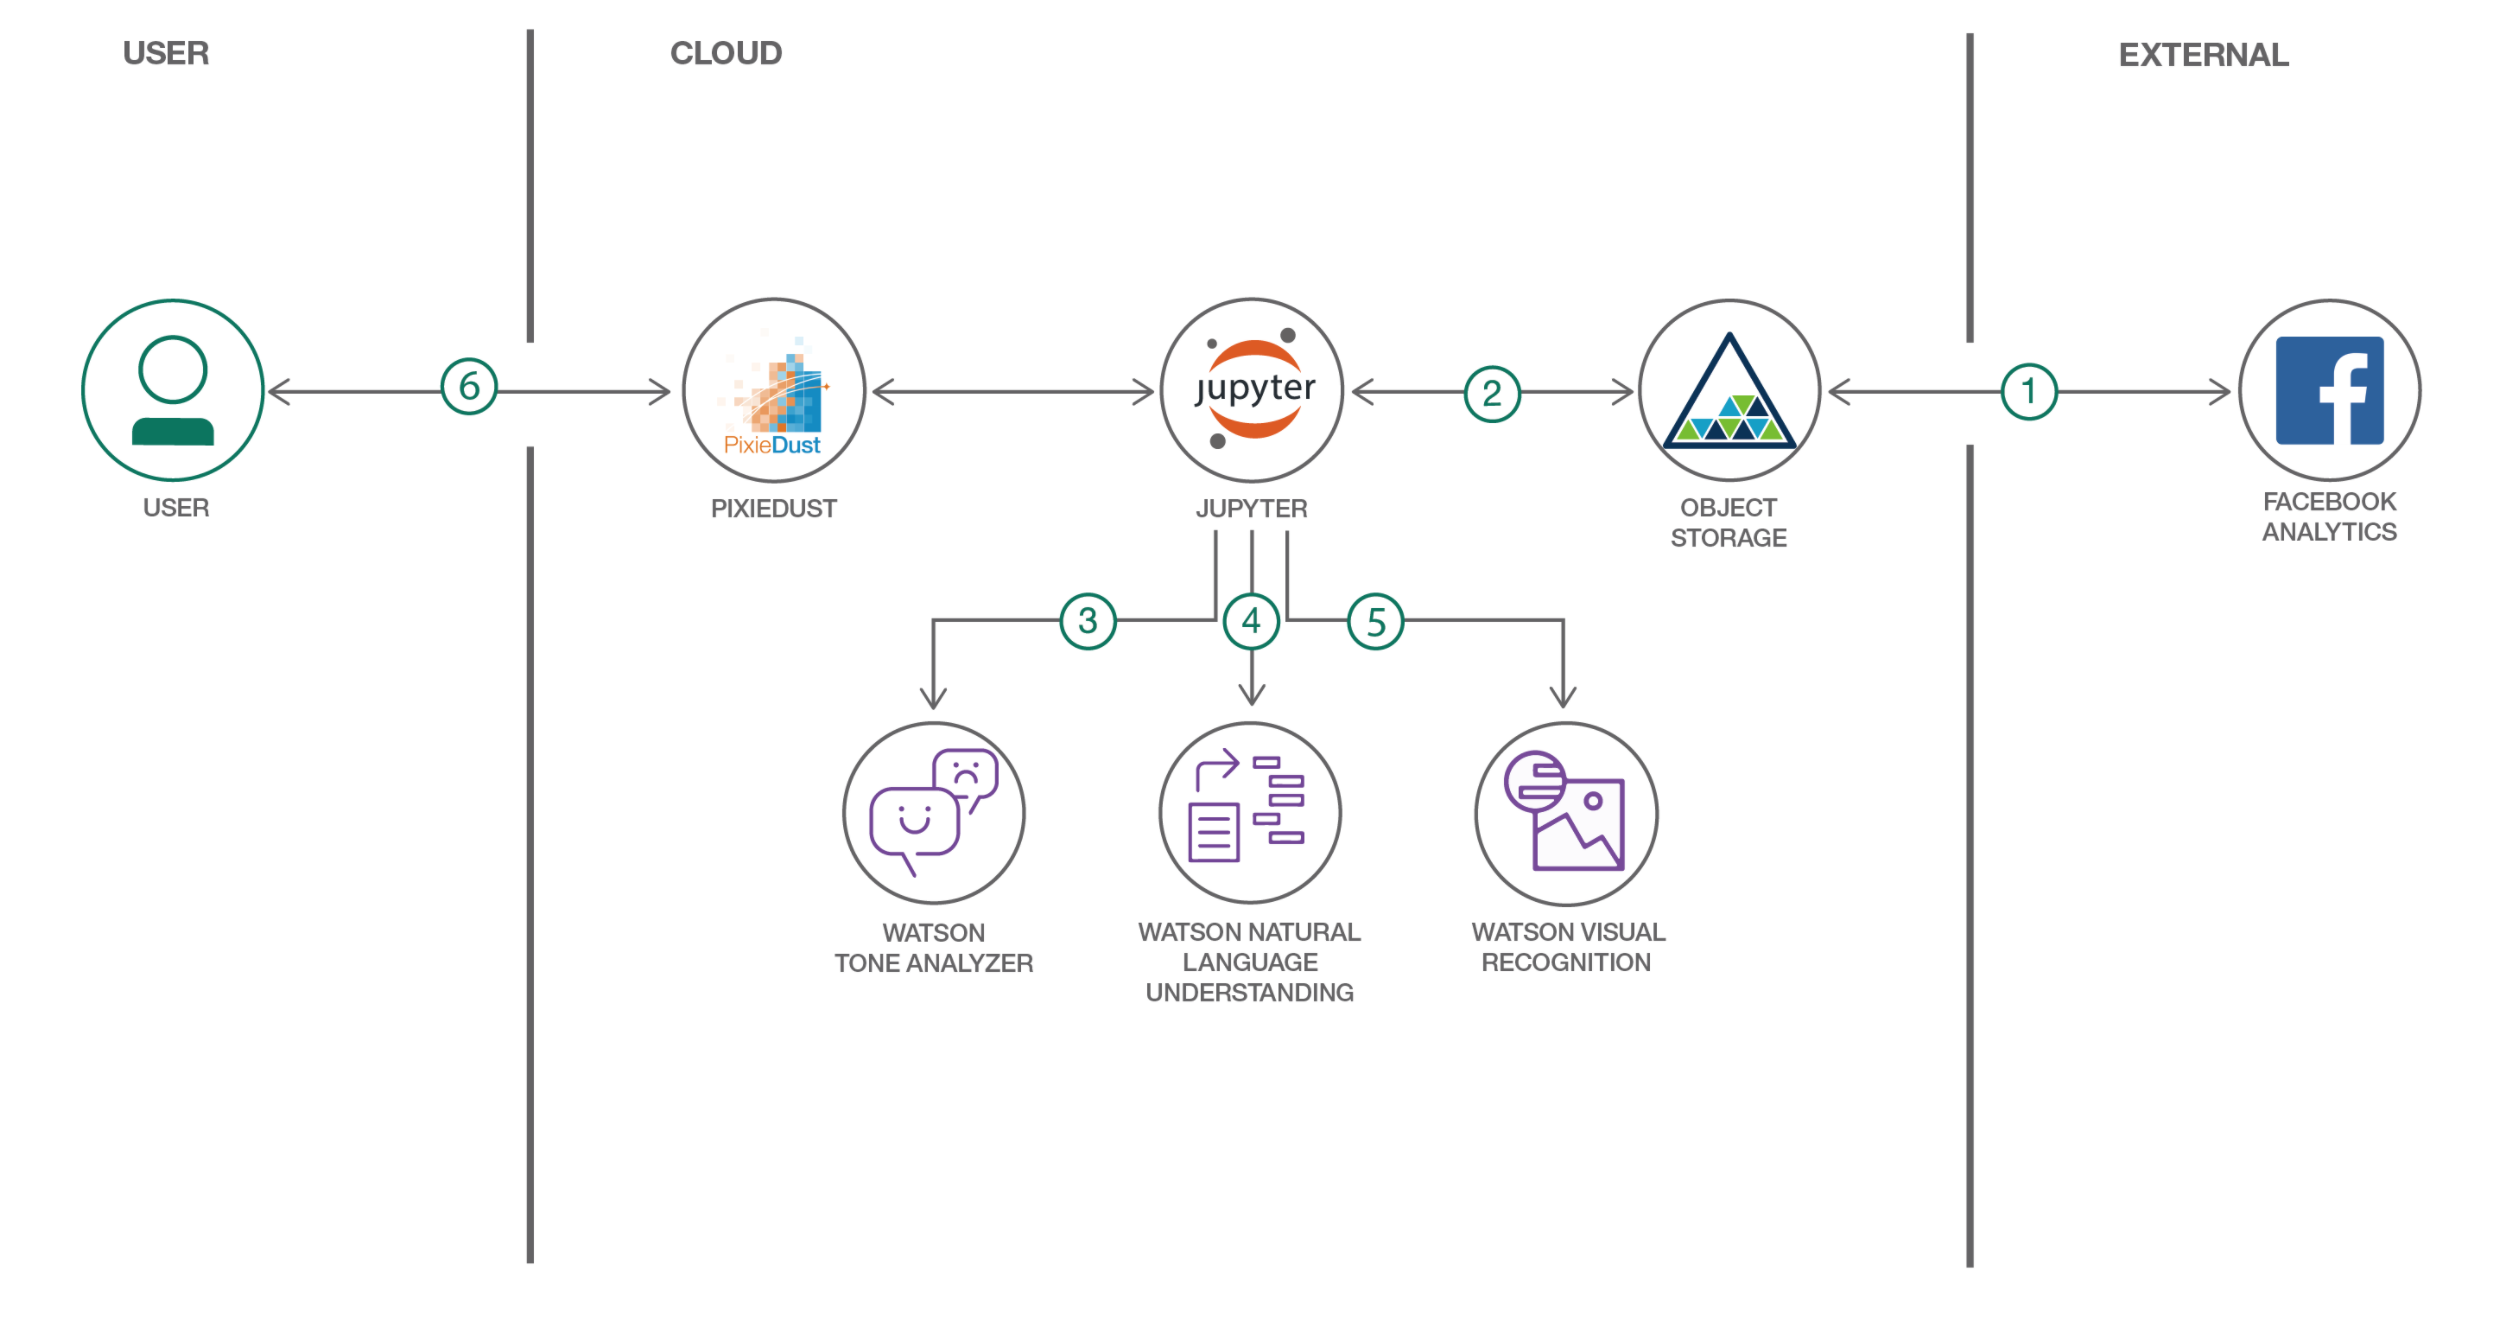
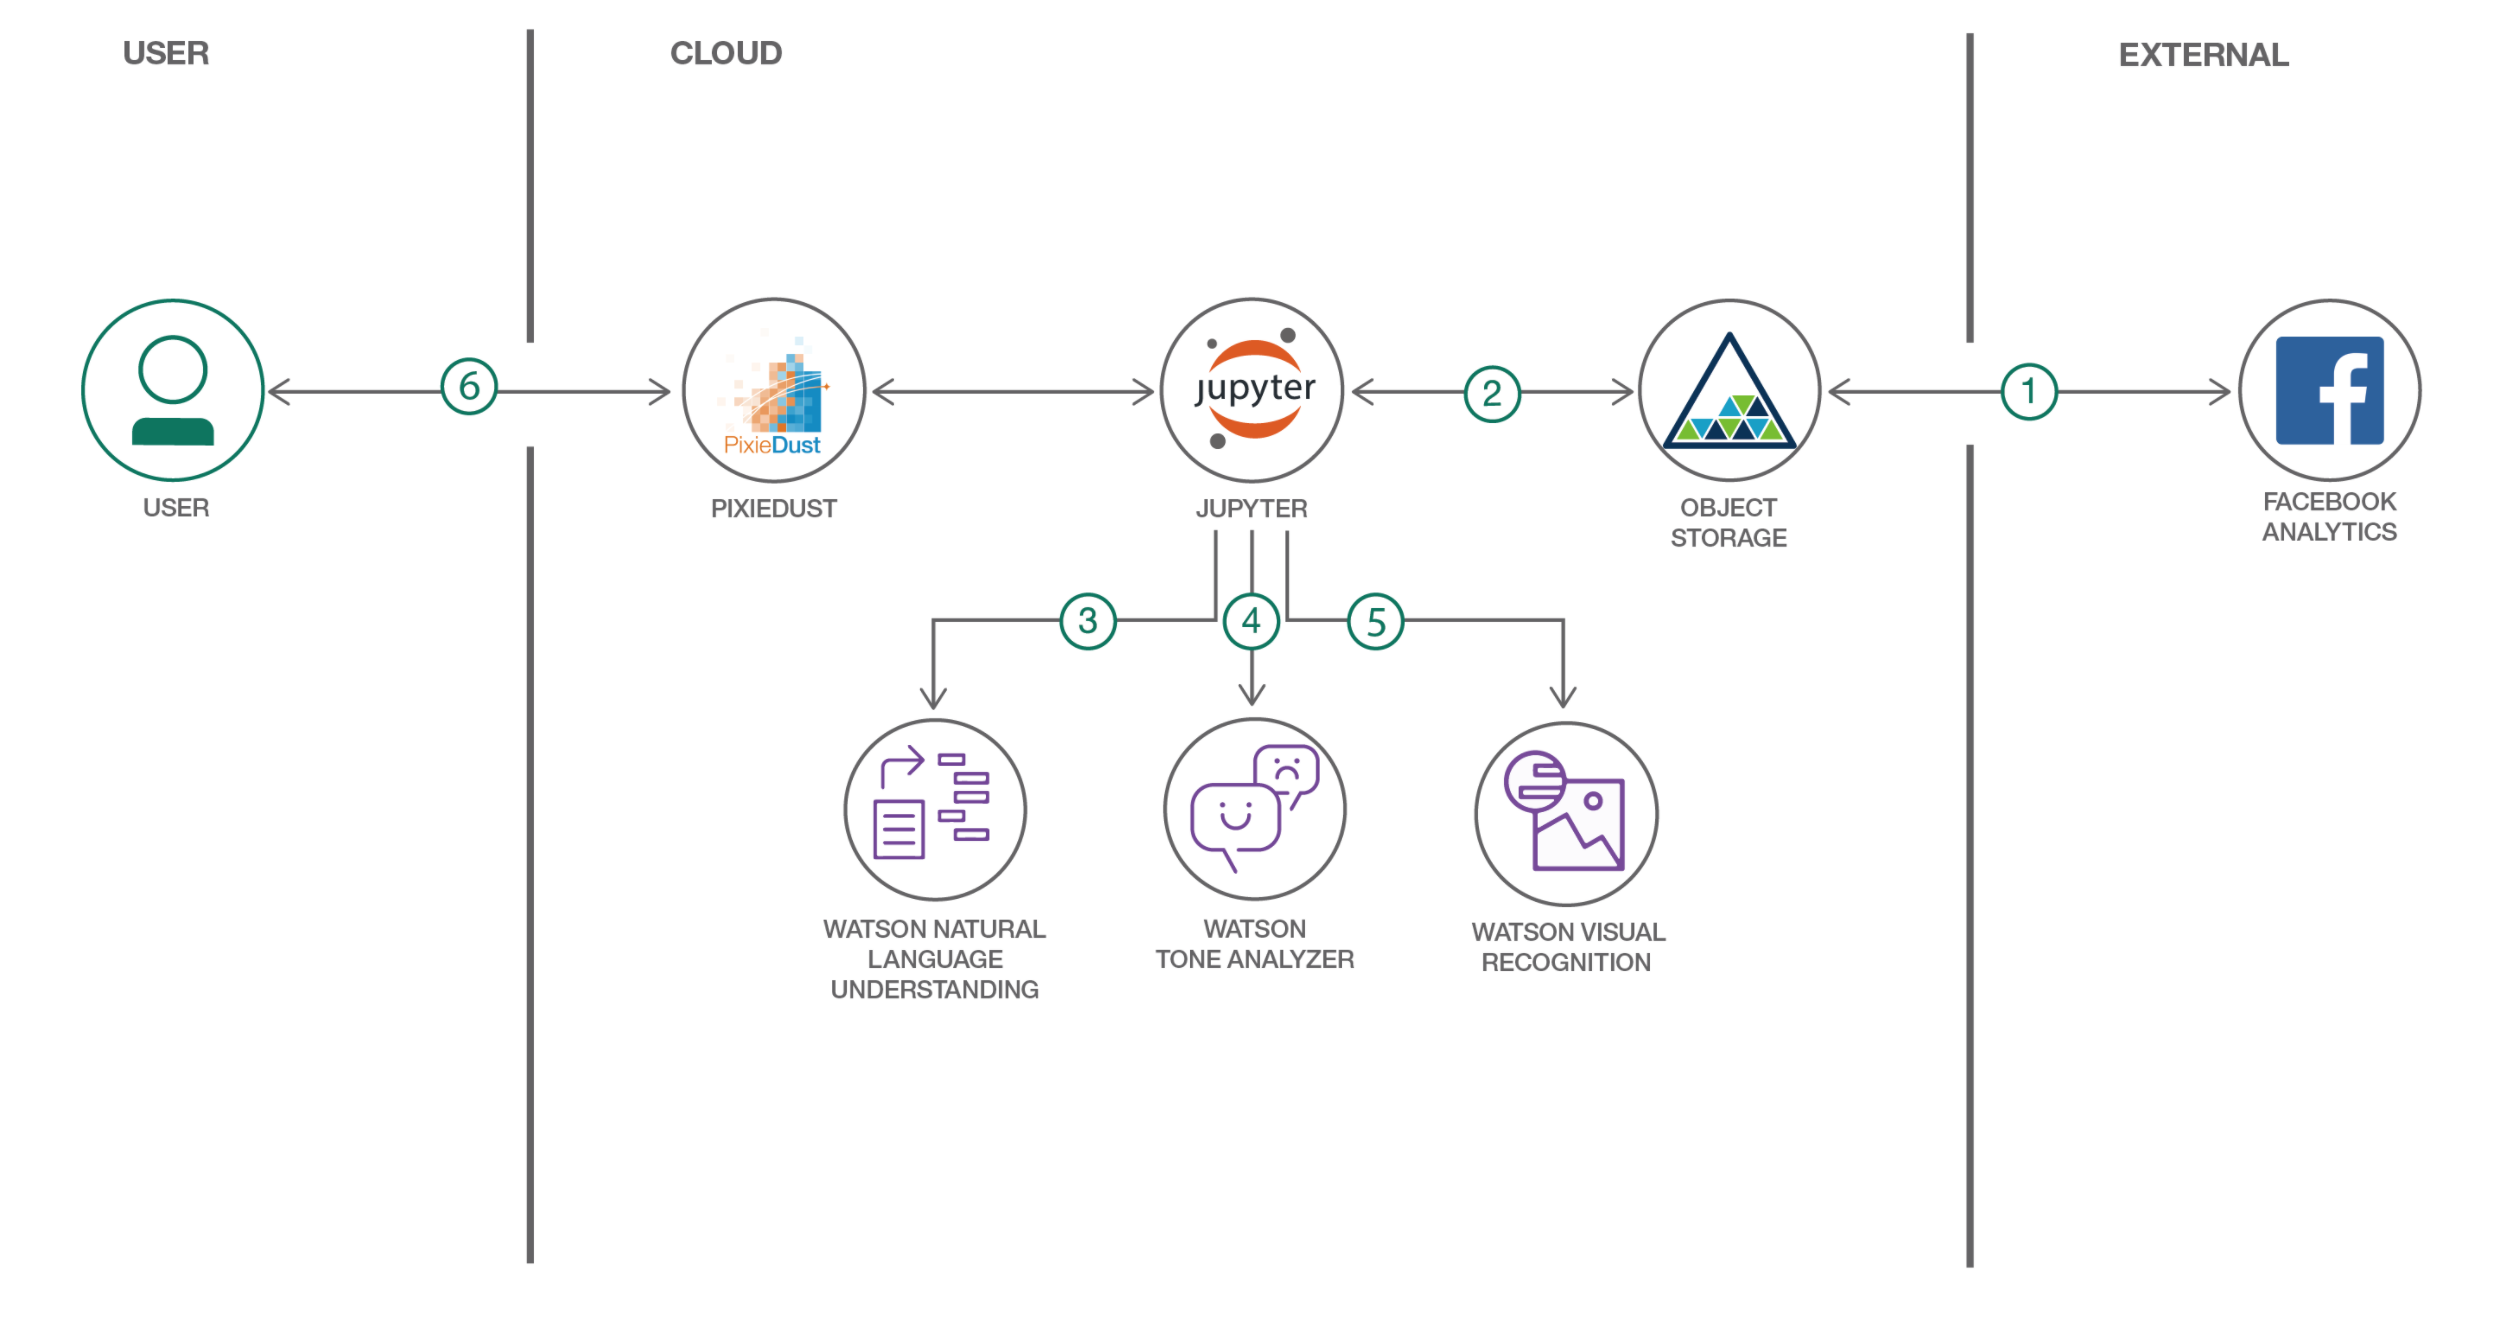
Fixes based on feedback
* Fix order of NLU, Tone, VR in README and arch diagram
* Fixed typo in 4.1 text
* Add link back to watsonaccelerators.com (in notebook)
* Copy links section into README too
* Added missing link to Visual Recognition in Tech Used section.
* Consolidated 4.5 text (changed since nlu loop code was re-used above)
* Add comment under 4.6 "Below uses VR..." similar to other sections
* Mention classify limit with free tier of VR (in notebook)

Changed region(s): [[0.4333, 0.5288, 0.5571, 0.7777], [0.3095, 0.5288, 0.4024, 0.7777]]

diff --git a/README.md b/README.md
@@ -22,9 +22,9 @@ When the reader has completed this journey, they will understand how to:
 
  * Read external data in to a DSX Jupyter notebook via DSX Object Storage and pandas DataFrames.
  * Use a Jupyter notebook and Watson APIs to enrich data unstructured data using:
-     * [Visual Recognition](https://www.ibm.com/watson/developercloud/visual-recognition.html)
      * [Natural Language Understanding](https://www.ibm.com/watson/developercloud/natural-language-understanding.html)
      * [Tone Analyzer](https://www.ibm.com/watson/developercloud/tone-analyzer.html)
+     * [Visual Recognition](https://www.ibm.com/watson/developercloud/visual-recognition.html)
  * Write data from a pandas DataFrame in a DSX Jupyter notebook out to a file in DSX Object Storage.
  * Visualize and explore the enriched data with [PixieDust](https://github.com/ibm-cds-labs/pixiedust).
 
@@ -33,8 +33,8 @@ When the reader has completed this journey, they will understand how to:
 ## Flow
 1. A CSV file exported from Facebook Analytics is added to DSX Object Storage.
 2. Generated code makes the file accessible as a pandas DataFrame.
-3. The data is enriched with Tone Analyzer.
-4. The data is enriched with Natural Language Understanding.
+3. The data is enriched with Natural Language Understanding.
+4. The data is enriched with Tone Analyzer.
 5. The data is enriched with Visual Recognition.
 6. The enriched data can be explored with PixieDust to uncover hidden insights and create graphics to highlight them.
 
@@ -46,8 +46,8 @@ Want to take your Watson app to the next level? Looking to leverage Watson Brand
 
 * [IBM Data Science Experience](https://www.ibm.com/bs-en/marketplace/data-science-experience): Analyze data using RStudio, Jupyter, and Python in a configured, collaborative environment that includes IBM value-adds, such as managed Spark.
 * [Bluemix Object Storage](https://console.ng.bluemix.net/catalog/services/object-storage/?cm_sp=dw-bluemix-_-code-_-devcenter): A Bluemix service that provides an unstructured cloud data store to build and deliver cost effective apps and services with high reliability and fast speed to market.
-* [Watson Tone Analyzer](https://www.ibm.com/watson/developercloud/tone-analyzer.html): Uses linguistic analysis to detect communication tones in written text.
 * [Watson Natural Language Understanding](https://www.ibm.com/watson/developercloud/natural-language-understanding.html): Natural language processing for advanced text analysis.
+* [Watson Tone Analyzer](https://www.ibm.com/watson/developercloud/tone-analyzer.html): Uses linguistic analysis to detect communication tones in written text.
 * [Visual Recognition](https://www.ibm.com/watson/developercloud/visual-recognition.html): Understand image content.
 
 # Featured technologies
@@ -210,9 +210,9 @@ If you walk through the cells, you will see that we demonstrated how to do the f
 * Load data from a local CSV file to a pandas DataFrame (via Object Storage)
 * Do some data manipulation with pandas
 * Use BeautifulSoup
-* Use Visual Recognition
-* Use Tone Analyzer
 * Use Natural Language Understanding
+* Use Tone Analyzer
+* Use Visual Recognition
 * Save the enriched data in a CSV file in Object Storage
 
 ### Part II - Data Preparation
@@ -272,6 +272,15 @@ The example output in data/examples has embedded JavaScript for
 PixieDust charts. View it via github pages: [here](https://ibm.github.io/pixiedust-facebook-analysis/data/examples/pixiedust_facebook_analysis.html)
 
 > Note: Some interactive functionality does not work in the HTML sample. Run the notebook for full functionality. To see the code and markdown cells without output, you can view [notebooks/pixiedust_facebook_analysis.ipynb](notebooks/pixiedust_facebook_analysis.ipynb) with the github viewer.
+
+# Links
+
+For more information about PixieDust, check out the following:
+* PixieDust Documentation: https://ibm-cds-labs.github.io/pixiedust/index.html
+* PixieDust GitHub Repo: https://github.com/ibm-cds-labs/pixiedust
+
+Visit the Watson Accelerators portal to see more live patterns in action:
+* Watson Accelerators: http://www.watsonaccelerators.com
 
 # License
 
